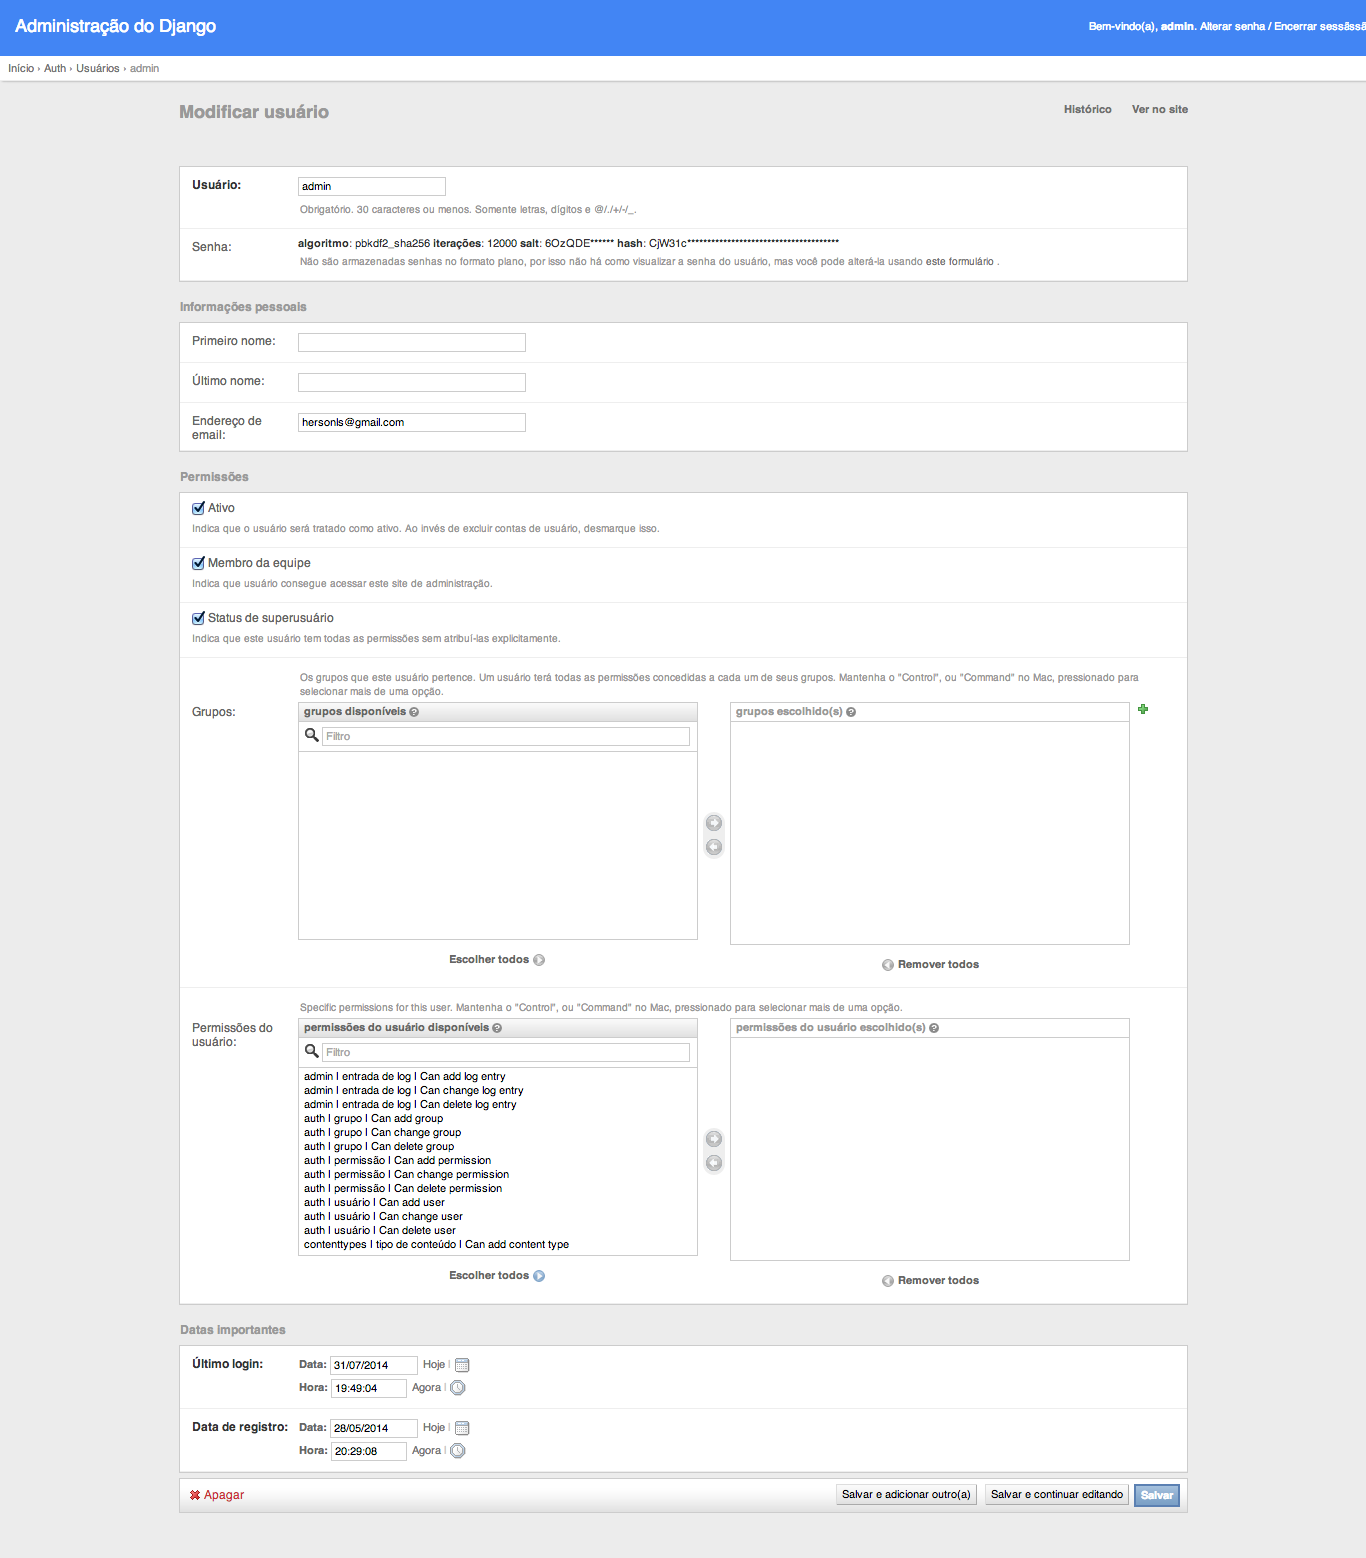
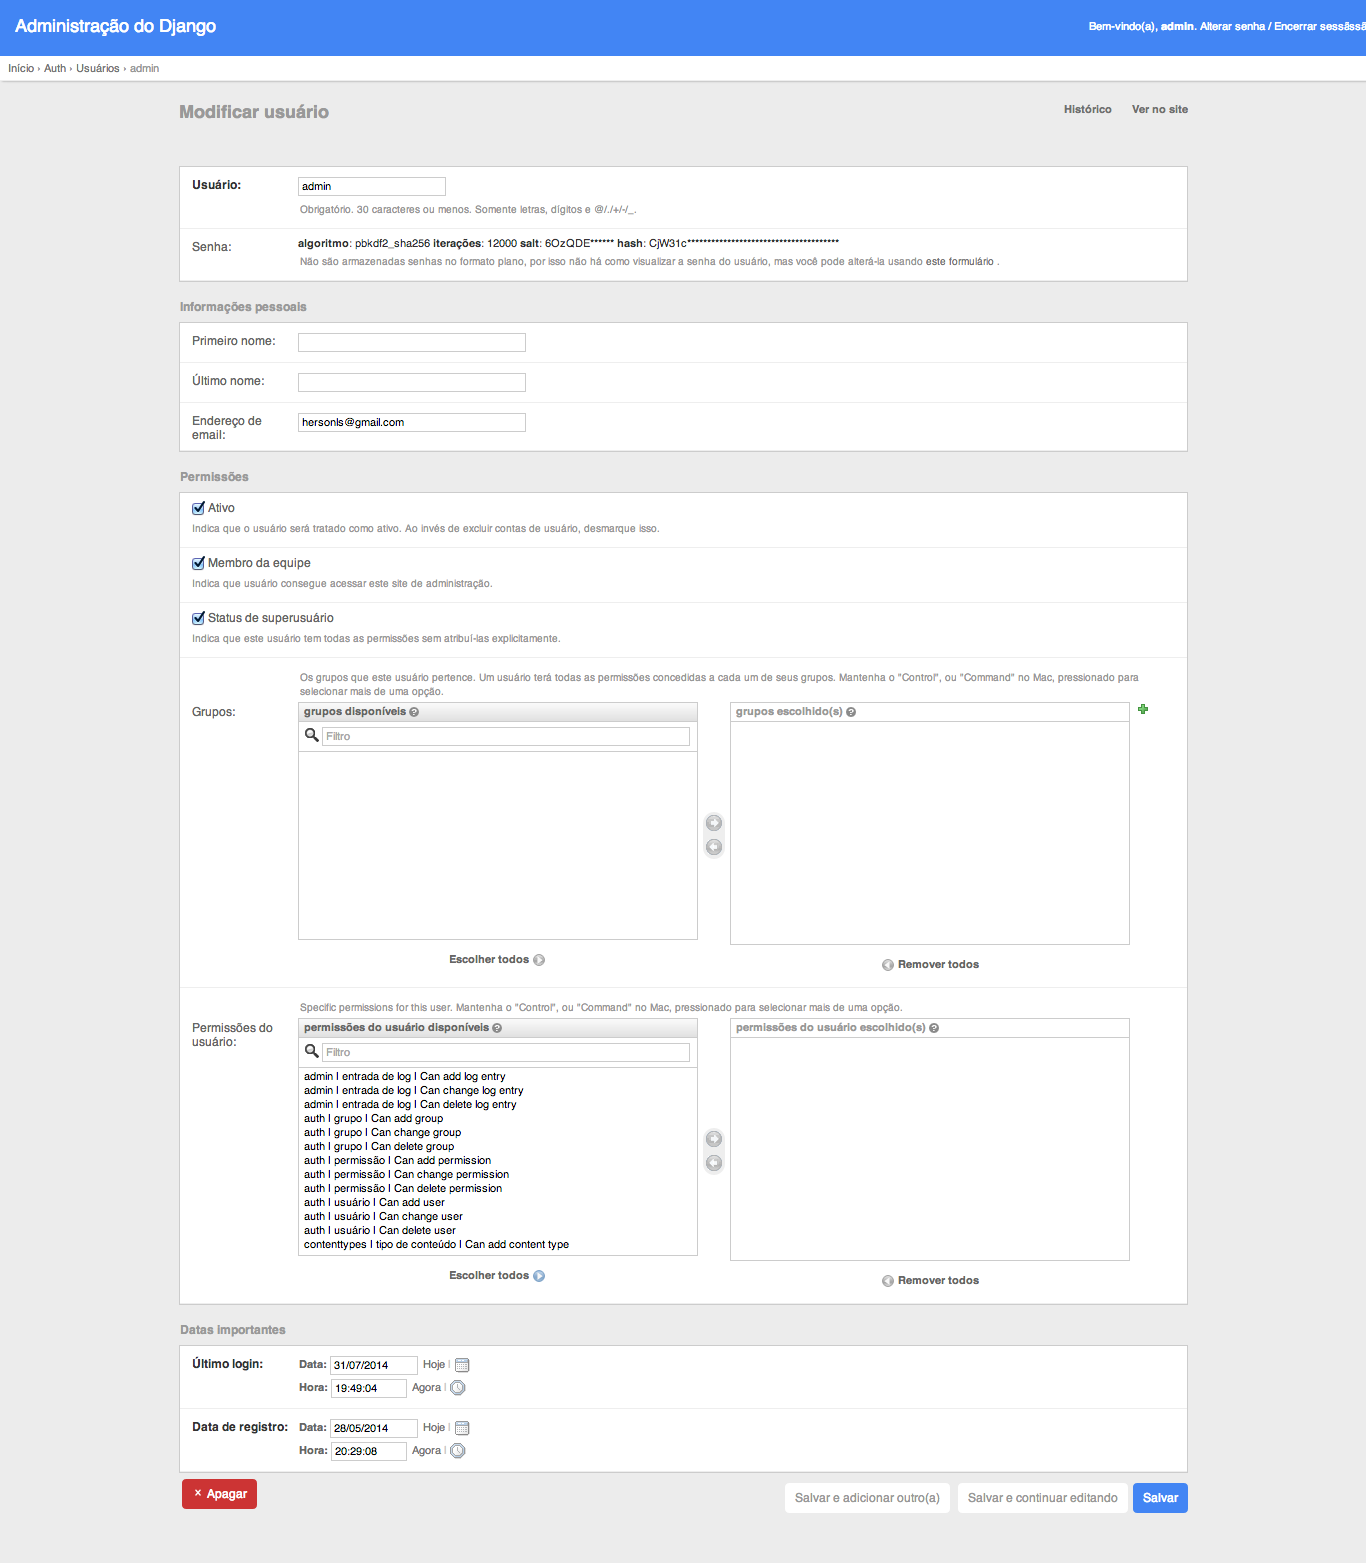
Added flat buttons

diff --git a/djamin/static/admin/css/base.css b/djamin/static/admin/css/base.css
@@ -2,7 +2,7 @@
     DJANGO Admin styles
 */
 
-@import url(http://fonts.googleapis.com/css?family=Roboto:400,100,300,100italic,300italic,400italic,500italic,500,700,700italic,900italic,900);
+/*@import url(http://fonts.googleapis.com/css?family=Roboto:400,100,300,100italic,300italic,400italic,500italic,500,700,700italic,900italic,900);*/
 @import url(../fonts/icomoon/style.css);
 
 body {
@@ -439,16 +439,18 @@ form .module {
 /* FORM BUTTONS */
 
 .button, input[type=submit], input[type=button], .submit-row input {
-    background: white url(../img/nav-bg.gif) bottom repeat-x;
-    padding: 3px 5px;
-    color: black;
-    border: 1px solid #bbb;
-    border-color: #ddd #aaa #aaa #ddd;
+    background: #fff;
+    padding: 8px 10px;
+    color: #999;
+    border: none;
+    font-size: 12px;
+    border-radius: 4px; 
+    cursor: pointer;
 }
 
+.button:hover, input[type=submit]:hover, input[type=button]:hover,
 .button:active, input[type=submit]:active, input[type=button]:active {
-    background-image: url(../img/nav-bg-reverse.gif);
-    background-position: top;
+    background: #f8f8f8;
 }
 
 .button[disabled], input[type=submit][disabled], input[type=button][disabled] {
@@ -458,22 +460,18 @@ form .module {
 }
 
 .button.default, input[type=submit].default, .submit-row input.default {
-    border: 2px solid #5b80b2;
-    background: #7CA0C7 url(../img/default-bg.gif) bottom repeat-x;
-    font-weight: bold;
+    background: #4285f4;
     color: white;
     float: right;
 }
 
+.button.default:hover, input[type=submit].default:hover,
 .button.default:active, input[type=submit].default:active {
-    background-image: url(../img/default-bg-reverse.gif);
-    background-position: top;
+    background: #4189ff;
 }
 
 .button[disabled].default, input[type=submit][disabled].default, input[type=button][disabled].default {
-	background-image: url(../img/default-bg.gif);
-	background-position: bottom;
-	opacity: 0.4;
+	opacity: 0.3;
 }
 
 
@@ -638,7 +636,11 @@ div.breadcrumbs {
 
 /* ACTION ICONS */
 .addlink:before,
-.changelink:before  {
+.changelink:before,
+.inline-group ul.tools a.add:before,
+.inline-group div.add-row a:before,
+.inline-group .tabular tr.add-row td a:before,
+.submit-row .deletelink:before {
     font-family: 'icomoon';
     speak: none;
     font-style: normal;
@@ -658,6 +660,11 @@ div.breadcrumbs {
     /*background: url(../img/icon_addlink.gif) 0 .2em no-repeat;*/
 }
 
+.addlink:before,
+.changelink:before,
+.inline-group ul.tools a.add:before,
+.inline-group div.add-row a:before,
+.inline-group .tabular tr.add-row td a:before,
 .addlink:before {
     content: "\e680";
 }
@@ -672,8 +679,10 @@ div.breadcrumbs {
 }
 
 .deletelink {
-    padding-left: 12px;
     /*background: url(../img/icon_deletelink.gif) 0 .25em no-repeat;*/
+}
+.deletelink:before {
+    content: "\e678";
 }
 
 a.deletelink:link, a.deletelink:visited {

diff --git a/djamin/static/admin/css/forms.css b/djamin/static/admin/css/forms.css
@@ -160,10 +160,8 @@ fieldset.monospace textarea {
 /* SUBMIT ROW */
 
 .submit-row {
-    padding: 5px 7px;
+    padding: 5px 0;
     text-align: right;
-    background: white url(../img/nav-bg.gif) 0 100% repeat-x;
-    border: 1px solid #ccc;
     margin: 5px 0;
     overflow: hidden;
 }
@@ -185,9 +183,24 @@ body.popup .submit-row {
 }
 
 .submit-row .deletelink {
-    background: url(../img/icon_deletelink.gif) 0 50% no-repeat;
-    padding-left: 14px;
+    background: #CC3434;
+    padding: 8px 10px;
+    color: #fff;
+    border: none;
+    font-size: 12px;
+    border-radius: 4px; 
 }
+
+.submit-row a.deletelink:link, 
+.submit-row a.deletelink:visited {
+    color: #fff;
+}
+
+.submit-row a.deletelink:hover{
+    background: #d8383b;
+}
+
+
 
 /* CUSTOM FORM FIELDS */
 
@@ -343,7 +356,11 @@ body.popup .submit-row {
     color: #666;
     padding: 3px 5px;
     border-bottom: 1px solid #ddd;
-    background: #e1e1e1 url(../img/nav-bg.gif) top left repeat-x;
+    background: #fff;
+}
+
+.inline-group .tabular tr.add-row {
+    height: auto;
 }
 
 .inline-group .tabular tr.add-row td {
@@ -354,8 +371,6 @@ body.popup .submit-row {
 .inline-group ul.tools a.add,
 .inline-group div.add-row a,
 .inline-group .tabular tr.add-row td a {
-    background: url(../img/icon_addlink.gif) 0 50% no-repeat;
-    padding-left: 14px;
     font-size: 11px;
     outline: 0; /* Remove dotted border around link */
 }
